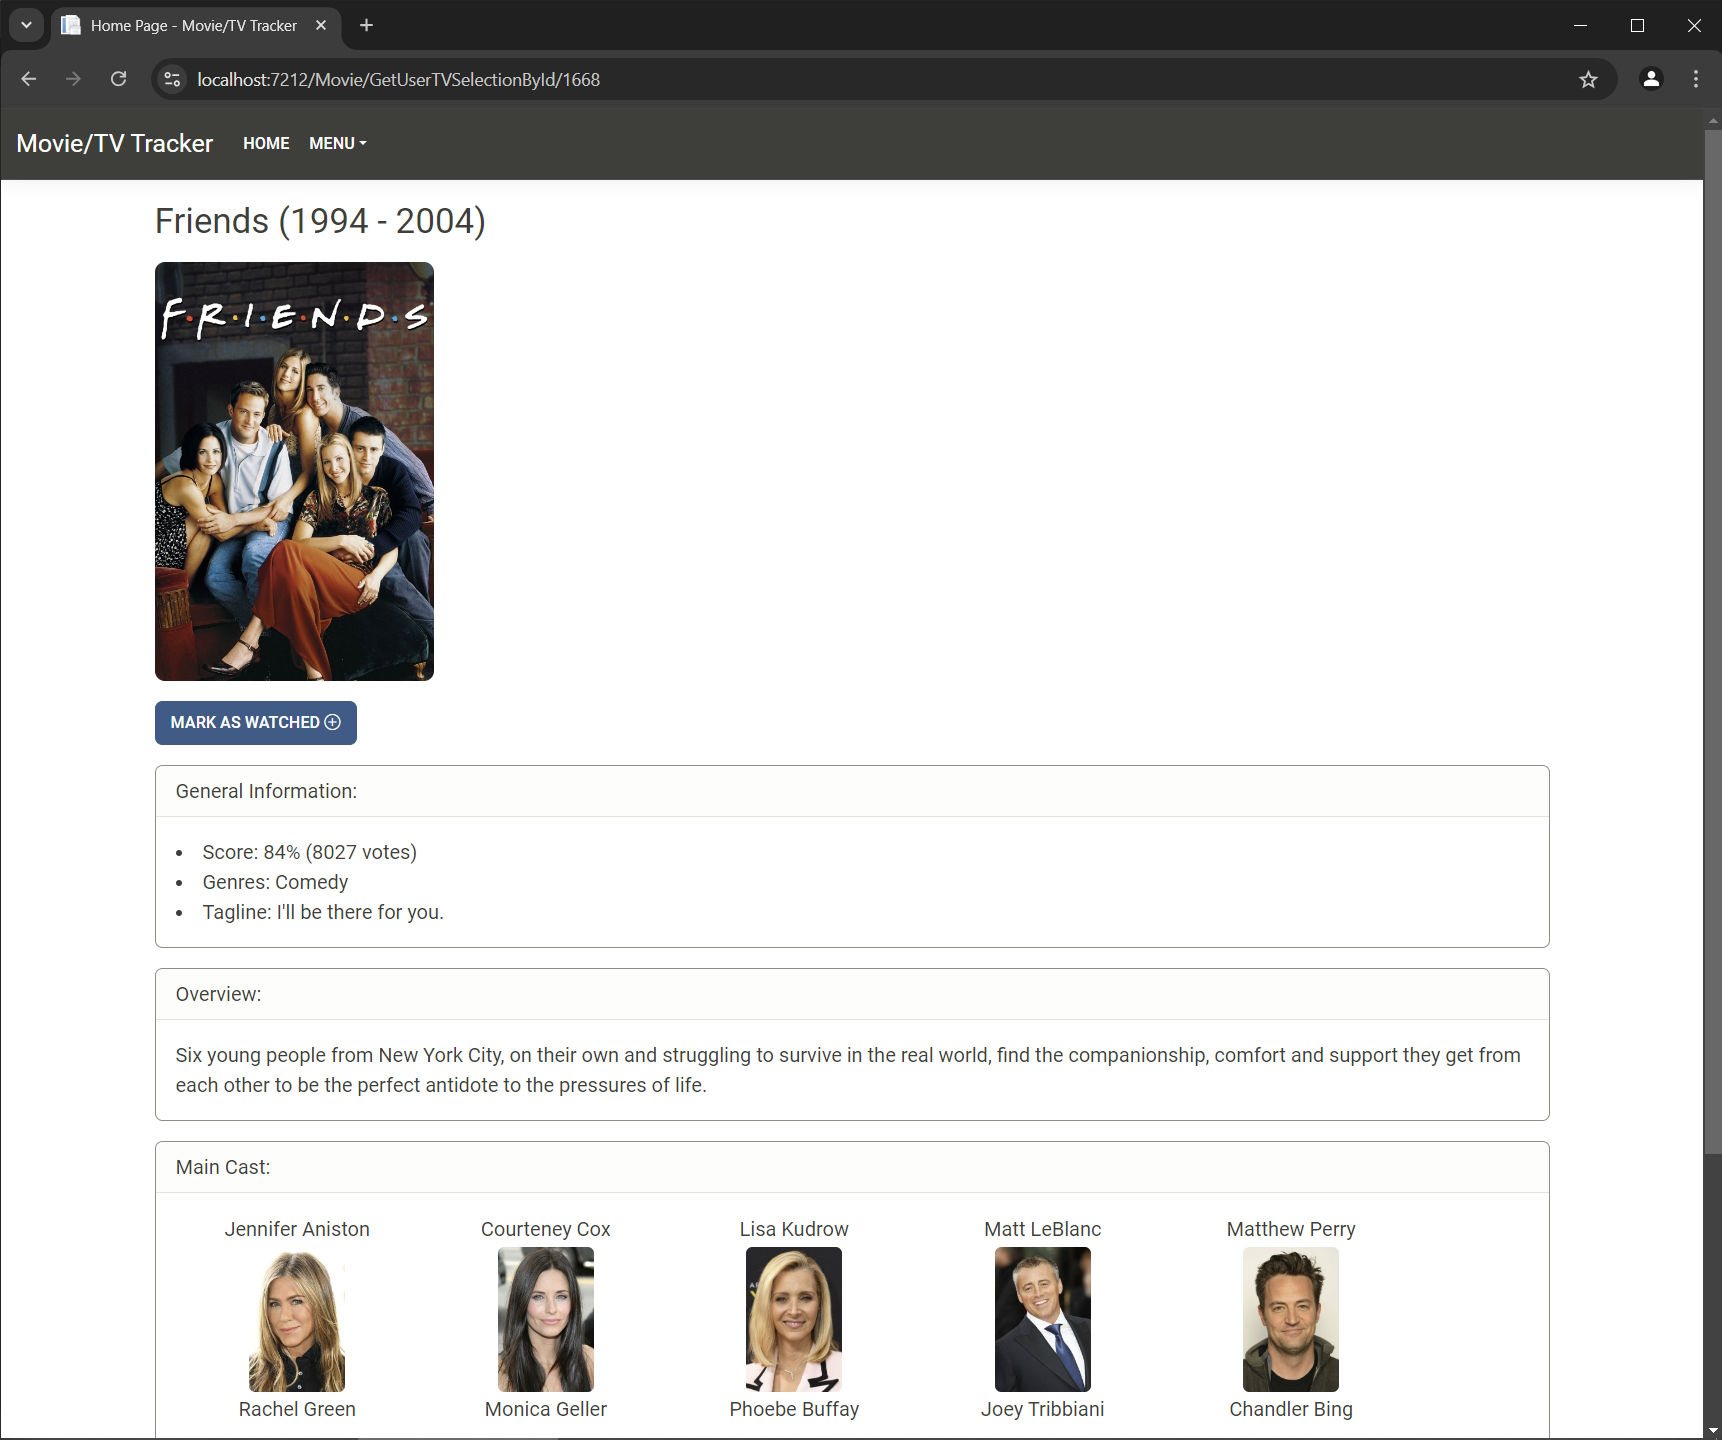
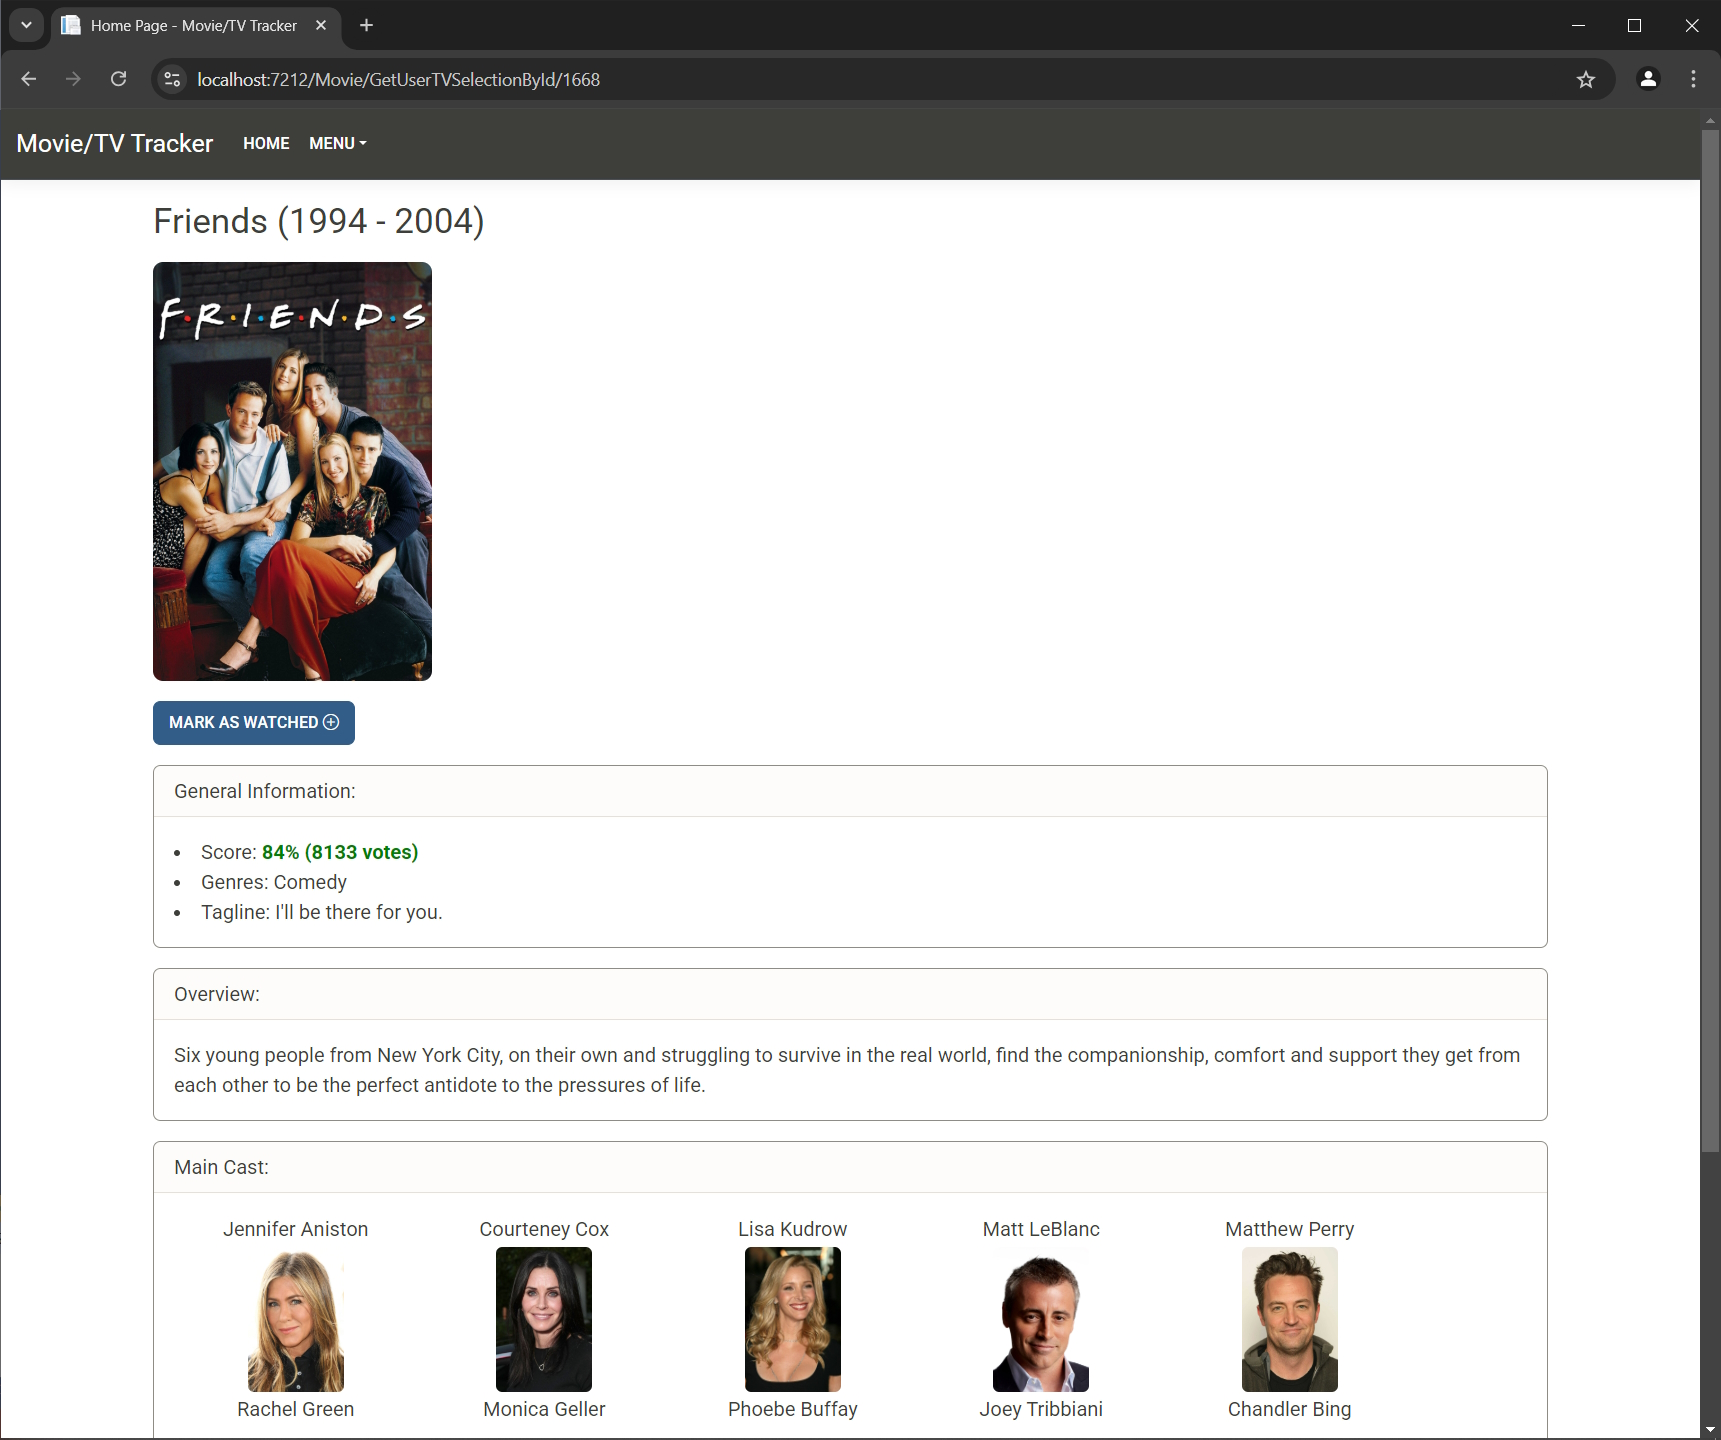
Bug Fix: Added in a fix for if TMDB API returns no value for runtime on a TV show.  Also updated images

diff --git a/TmdbApi.Lib/Tmdb.cs b/TmdbApi.Lib/Tmdb.cs
@@ -45,7 +45,7 @@ namespace TmdbApi.Lib
                     return null;
                 }
             }
-            else if(response.StatusCode == System.Net.HttpStatusCode.Unauthorized)
+            else if (response.StatusCode == System.Net.HttpStatusCode.Unauthorized)
             {
                 // Usually caused when no '_readAccessToken' has been provided on the call
                 // TODO: Add in error handling
@@ -187,7 +187,7 @@ namespace TmdbApi.Lib
             resultReturn.TvIdResult = SearchForTvById(id);
             resultReturn.CreditsByTvId = SearchForCreditsByTvId(id);
 
-            if(resultReturn.TvIdResult != null)
+            if (resultReturn.TvIdResult != null)
             {
                 resultReturn.Score = string.Format("{0}% ({1} votes)", @Math.Round((resultReturn.TvIdResult.vote_average * 10), 0), resultReturn.TvIdResult.vote_count);
             }

diff --git a/TmdbApi.Lib/Models/Last_Episode_To_Air.cs b/TmdbApi.Lib/Models/Last_Episode_To_Air.cs
@@ -11,7 +11,7 @@
         public int episode_number { get; set; }
         public string episode_type { get; set; }
         public string production_code { get; set; }
-        public int runtime { get; set; }
+        public int? runtime { get; set; } // Made this nullable as sometimes TMDB API can return this with no value.
         public int season_number { get; set; }
         public int show_id { get; set; }
         public string still_path { get; set; }
